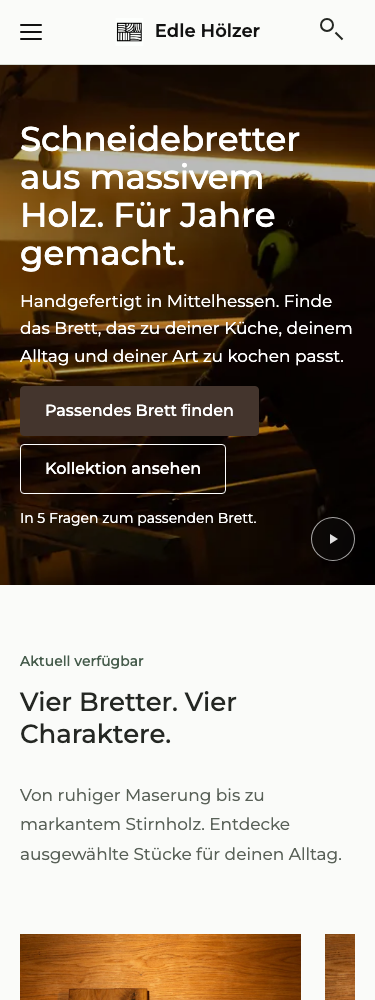
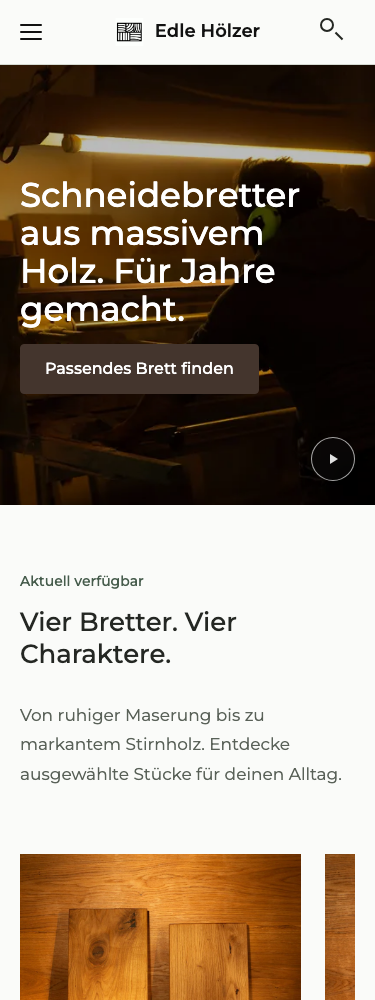
fix: simplify mobile homepage hero to one clear action

diff --git a/assets/css/design-system.css b/assets/css/design-system.css
@@ -7,7 +7,7 @@
     --space-1:4px;--space-2:8px;--space-3:12px;--space-4:16px;--space-5:24px;--space-6:32px;--space-7:48px;--space-8:64px;--space-9:96px;--space-10:128px;
     --container-wide:1440px;--container-content:1240px;--container-reading:760px;--gutter:48px;
     --text-meta:14px;--text-body:17px;--text-lead:19px;--text-h1:48px;--text-product-title:38px;--text-h2:32px;--text-h3:22px;
-    --text-control:16px;--text-card:18px;--text-price:26px;--size-control:48px;--size-target:44px;--header-height:80px;--header-mobile-height:64px;--hero-min:440px;--hero-max:640px;--hero-mobile-min:520px;
+    --text-control:16px;--text-card:18px;--text-price:26px;--size-control:48px;--size-target:44px;--header-height:80px;--header-mobile-height:64px;--hero-min:440px;--hero-max:640px;--hero-mobile-min:440px;
     --radius:4px;--border:1px solid var(--color-line);--duration:180ms;--ease:ease-out;--section-space:96px;--shadow-overlay:0 12px 40px #24272326;
   }
   @media(max-width:760px){:root{--gutter:20px;--text-h1:34px;--text-product-title:30px;--text-h2:26px;--text-h3:20px;--section-space:64px}}
@@ -156,6 +156,7 @@
     .ds-site .topbar,.ds-site .topbar__inner{min-height:var(--header-mobile-height)}.ds-site .topbar__inner{gap:var(--space-3)}.ds-site .brand__text{font-size:var(--text-card)}.ds-site .brand__logo{width:28px;height:28px}
     .ds-site .ds-hero--immersive{height:auto;min-height:var(--hero-mobile-min)}.ds-site .hero__content{height:auto;min-height:var(--hero-mobile-min);padding-block:var(--space-5)}
     .ds-site .hero__supportingCopy{font-size:var(--text-body);margin-block:var(--space-4)}.ds-site .hero__actions{gap:var(--space-2);margin-top:var(--space-4)}
+    .ds-site .hero :is(.hero__supportingCopy,.hero__finderHint),.ds-site .hero__actions>a~a{display:none}
     .ds-site .homepageProducts{padding-top:var(--space-7)}
     .ds-site :is(.homeWorkshop,.materialProofBlock__layout,.roomDiscovery__layout,.erbstueckFeature__layout,.ds-image-text,.productPreview,.pflege-grid,.pflege-produkt){grid-template-columns:1fr;gap:var(--space-6)}
     .ds-site .productPreview__content{padding-top:var(--space-4)}.ds-site .productPreview h1{max-width:100%}

diff --git a/docs/design-reference-review.md b/docs/design-reference-review.md
@@ -4,6 +4,8 @@
 
 Branch `codex/design-system-zeitraum-inspired`, Basis main `f772f7a`. Phase A und B sind als isolierter Build umgesetzt. Es wurden noch nicht alle 145 Seiten migriert und weder GitHub-Produktionsdeployment noch bestehende Cloudflare-/Stripe-Vorschau ersetzt. Der Shopcheckout mit seinen ungespeicherten Arbeiten blieb unberührt.
 
+Review-Rückmeldung: Die Designrichtung wurde vom Nutzer grundsätzlich bestätigt. Nachgebessert wurde der mobile Home-Hero: nur bestehende H1 und eine Hauptaktion, kein langer Introtext, kein zweiter Button und kein zusätzlicher Finder-Hinweis. Diese Elemente bleiben im HTML und auf Desktop sichtbar. Der mobile Bildrahmen ist auf mindestens 440px reduziert. Designmigration hat Vorrang; Shopintegration folgt getrennt danach.
+
 ## Vorher / nachher
 
 | Typ | Vorher | Nachher |
@@ -45,7 +47,7 @@ Kein automatischer Test beweist vollständige WCAG-Konformität. Screenreader un
 
 ## Risiken und offene Freigaben
 
-1. Designrichtung, Fonts und drei Referenztypen gemeinsam prüfen; danach erst templateweiser Rollout.
+1. Grundrichtung bestätigt; der templateweise Designrollout kann nach der mobilen Korrektur fortgesetzt werden. Kein Shop-Livegang aus dieser Freigabe ableiten.
 2. Main enthält nicht alle ungespeicherten, zuvor bestätigten Inhalts- und Produktkorrekturen des Shopcheckouts. Vor einer Veröffentlichung müssen diese separat und gezielt übernommen werden. Der Referenzbuild erklärt sie nicht für erledigt.
 3. Der Pilot enthält noch die vorhandene Legacy-CSS-Menge. Neue Kernassets: rund 18KB CSS, 5.6KB JS und 38KB lokale Fontdatei, unkomprimiert. Vier doppelte CSS-Ladepfade werden ausschließlich im generierten Referenz-main.js für ds-site unterbunden; der Quellvergleich prüft exakt diese vier Guards. Die indikative Netzwerkaufnahme meldet weniger Requests, aber noch rund 57–67KB zusätzliche CSS/JS/Font-Transferbytes pro Referenz. Cross-Origin-Werte können null sein, daher ist das kein vollständiger Performancevergleich. Das Ziel „nicht schwerer“ ist noch nicht abgenommen: vor Rollout Legacy-CSS abbauen und Lighthouse/Netzwerkbudget unter identischen Bedingungen vergleichen.
 4. Finale Fotosprache und Bildreduktion bleiben redaktionell zu entscheiden. Bestehende Bildauswahl wurde nicht gegen fremde Stockbilder ausgetauscht.

diff --git a/docs/design-system-migration-report.md b/docs/design-system-migration-report.md
@@ -62,4 +62,4 @@ Der Bericht der 30 Ansichten ist zusätzlich als `design-reference-qa.json` vers
 112 Node-Tests bestanden. 30 Referenzansichten ohne automatische Befunde. Menü, Galerie, ReadMore und sechs No-JS-Fallbacks bestanden. Komponentenprüfseite deckt Tabs, FAQ und responsive Umschaltung ab. Keine Live-Anfragen oder Zahlungen durchgeführt.
 
 ## 20. Nächste Schritte
-Phase A/B zur Abnahme bereit, Phase C/D ausdrücklich noch nicht begonnen. Nach Review: Produktdetail-Template und Generator, Listing, übrige Home-Komponenten, Maß/Atelier/Erbstück, Pflege/Aufbereitung, B2B/Gastronomie, Guides, Legal. Pro Gruppe kleine geprüfte Commits. Vor Veröffentlichung frühere bestätigte, ungespeicherte Inhalte mit dem Shopbranch abstimmen, Legacy-Audit erneut ausführen und reales iOS/Safari testen. Keine automatische DNS-/Stripe-/Preis-/Versandänderung.
+Grundrichtung der Phase A/B vom Nutzer bestätigt; mobile Hero-Reduktion ergänzt. Phase C/D noch nicht begonnen. Nächste Reihenfolge: Produktdetail-Template und Generator, Listing, übrige Home-Komponenten, Maß/Atelier/Erbstück, Pflege/Aufbereitung, B2B/Gastronomie, Guides, Legal. Pro Gruppe kleine geprüfte Commits. Vor Veröffentlichung frühere bestätigte, ungespeicherte Inhalte mit dem Shopbranch abstimmen, Legacy-Audit erneut ausführen und reales iOS/Safari testen. Zuerst Design vollständig konsolidieren und abnehmen, danach Shopintegration. Keine automatische DNS-/Stripe-/Preis-/Versandänderung.

diff --git a/docs/design-system.md b/docs/design-system.md
@@ -25,7 +25,7 @@ Quellen: [Montserrat-Metadaten](https://raw.githubusercontent.com/google/fonts/m
 - Body 17px, unterstützend mindestens 14px; CTA 16px, Zielhöhe mindestens 48px.
 - Hauptsection 96 / 64px; kaufrelevante Gruppen 16–32px.
 - Wide 1440px, Content 1240px, Reading 760px; Fließtext maximal 68ch.
-- Bildrahmen: Produkt und Detail 1:1, Editorial 3:2, immersiver Hero flexibel mit begrenzter Höhe.
+- Bildrahmen: Produkt und Detail 1:1, Editorial 3:2, immersiver Hero flexibel mit begrenzter Höhe. Home-Hero mobil: bestehende H1 und eine Hauptaktion, mindestens 440px Bildrahmen; zusätzliche Copy und zweite Aktion nur auf Desktop.
 - Radius 4px, keine normalen Card-Shadows. Schatten nur für echte Overlays.
 
 ## Komponentenvertrag
